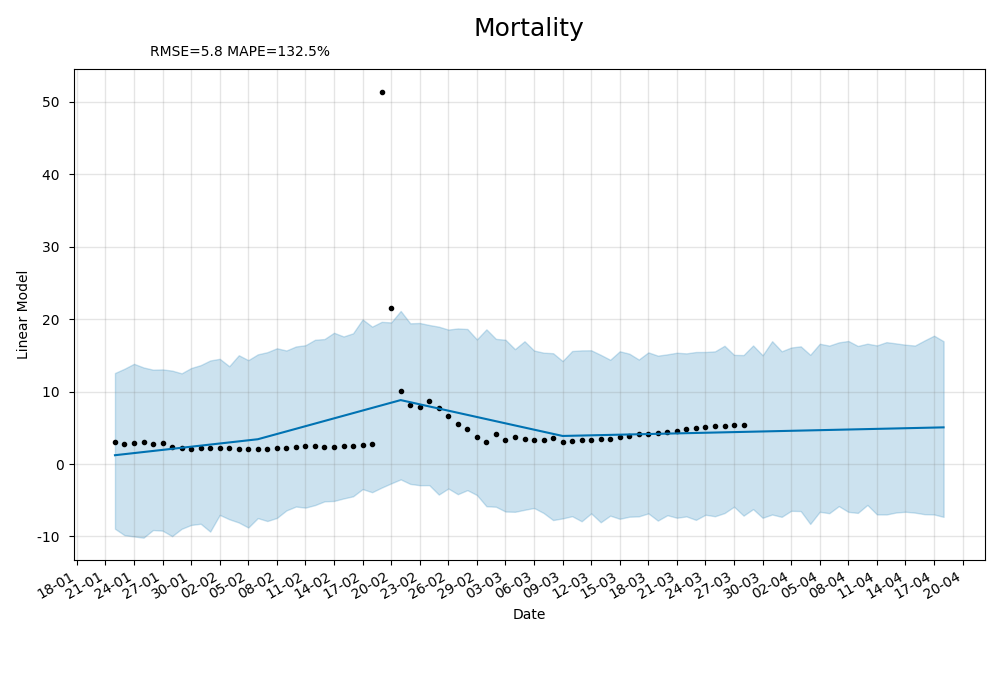
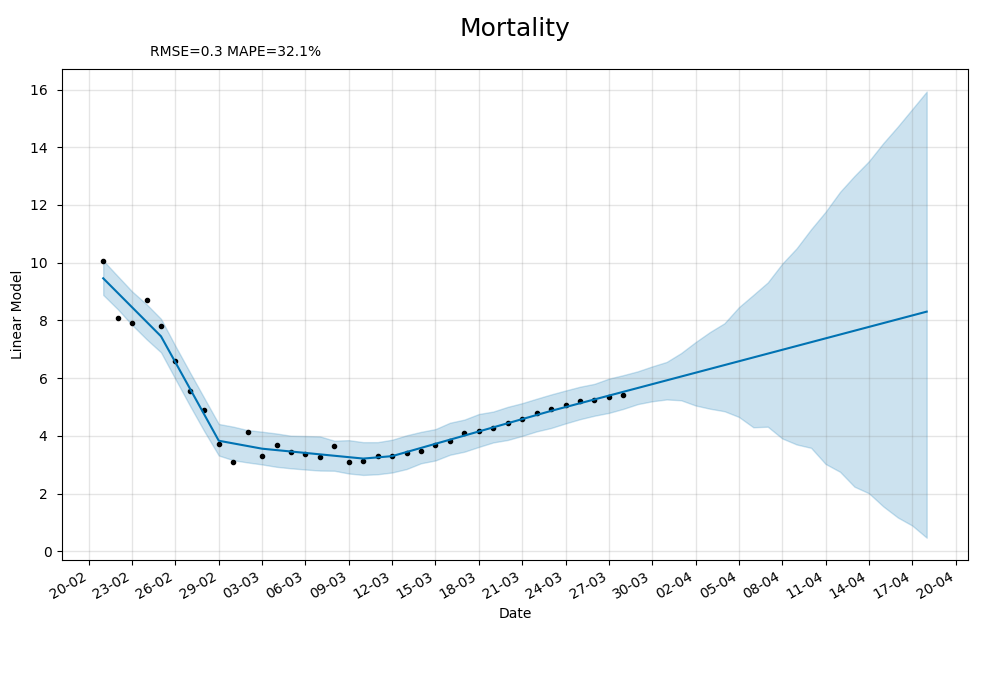
dresc

diff --git a/prophet_pred.py b/prophet_pred.py
@@ -63,15 +63,15 @@ def plotter(train = None, title = "", ylabel = "", fn = "test", plot = True, add
 
     plt.close('all')
 #
-plot = False
-confirmed_logistic = True
-confirmed_linear = True
-deaths_logistic = True
-deaths_linear = True
-active_logistic = True
-active_linear = True
-recovered_logistic = True
-recovered_linear = True
+plot = True
+confirmed_logistic = False
+confirmed_linear = False
+deaths_logistic = False
+deaths_linear = False
+active_logistic = False
+active_linear = False
+recovered_logistic = False
+recovered_linear = False
 mortality_linear = True
 
 #case, floor, cap
